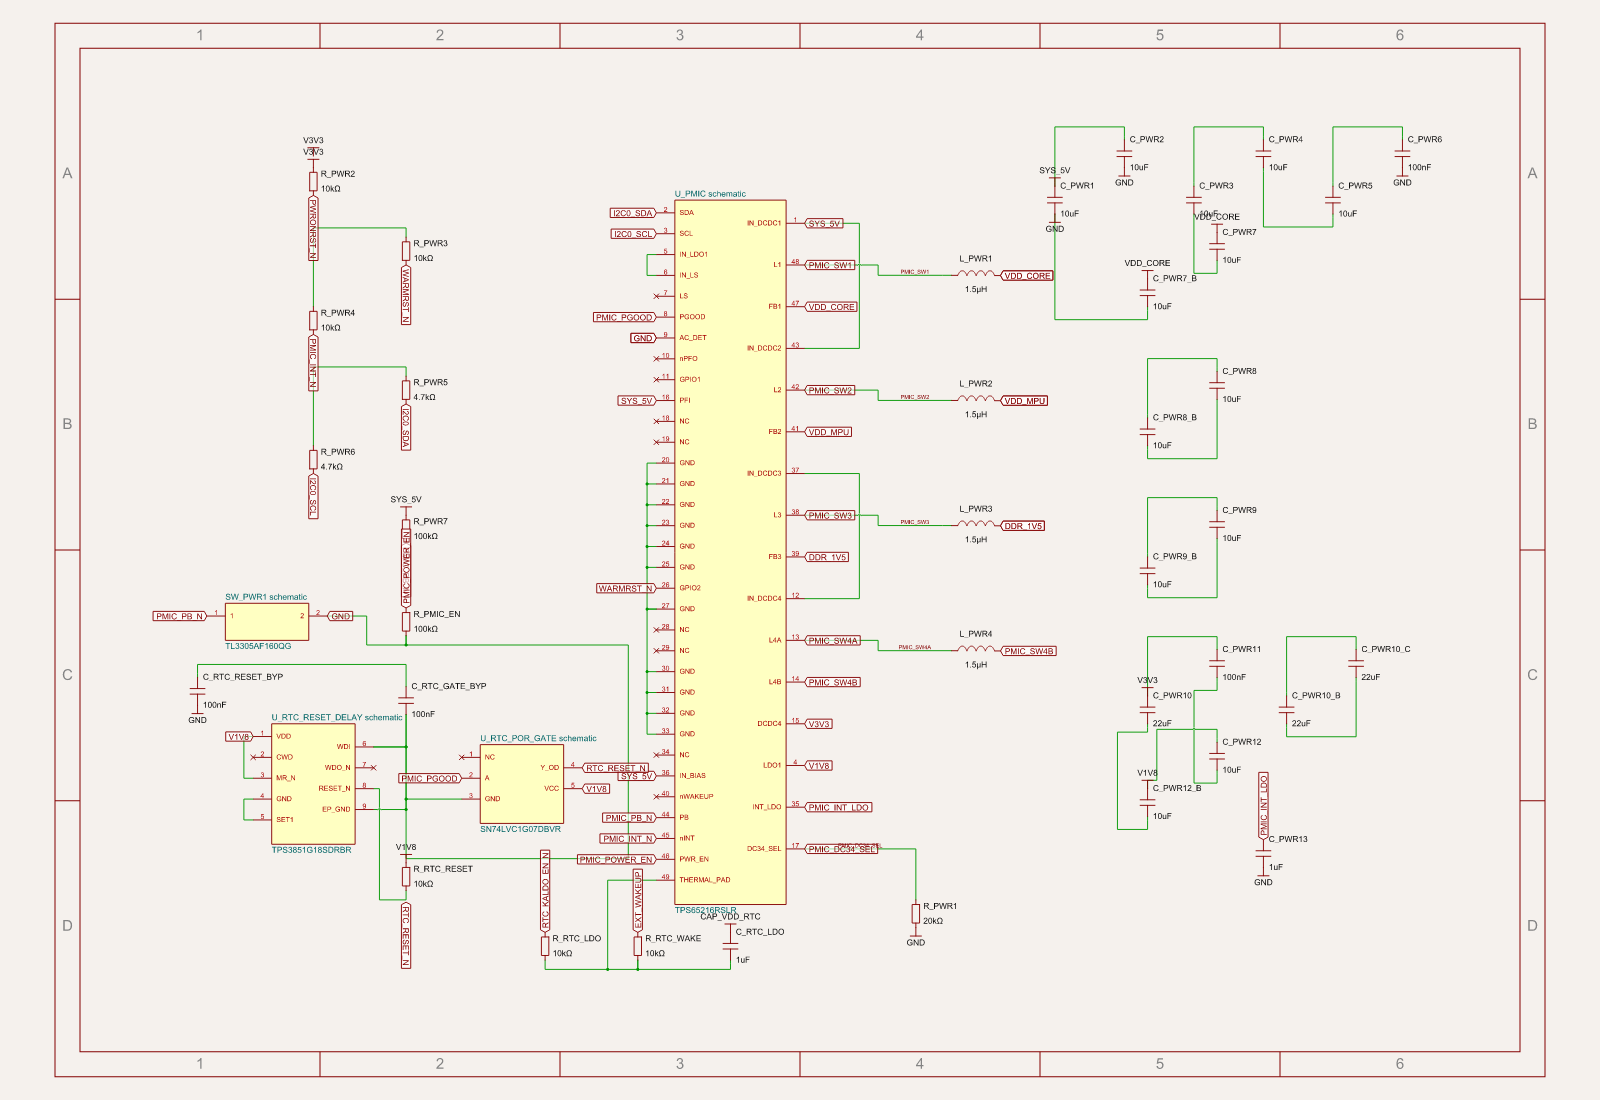
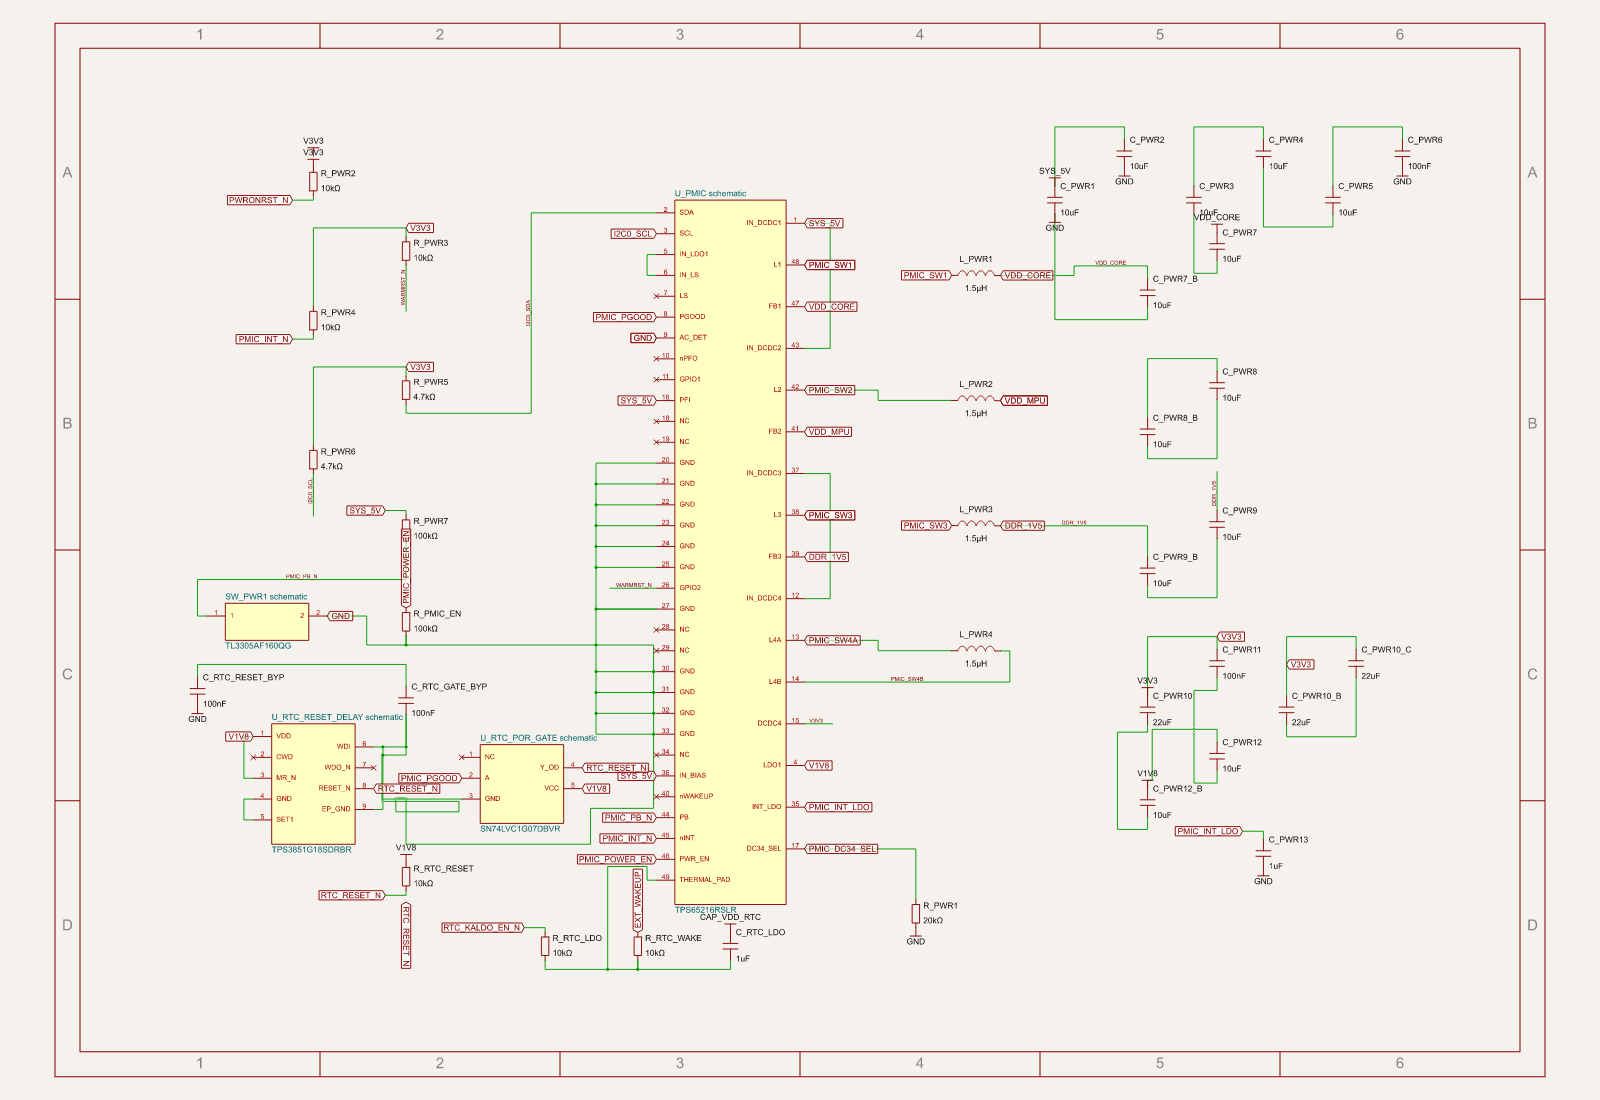
docs: verify power schematic PCB equivalence and visual metrics

diff --git a/scripts/schematic-lint-evidence.tsx b/scripts/schematic-lint-evidence.tsx
@@ -18,7 +18,7 @@ const summarize = (records: any[]) => Object.fromEntries([...new Set(physical(re
   // Stock capacitor symbols reorder, and sometimes omit, polarity synonyms on
   // rotation. Numbered pin identities and every connection remain comparable.
   const elements = records.filter(r => r.type === type).map(r => type === "source_port" ?
-    { ...r, port_hints: r.port_hints?.filter((hint: string) => !["pos", "neg", "anode", "cathode"].includes(hint)).sort() } : type === "source_missing_manufacturer_part_number_warning" ?
+    { ...r, port_hints: r.port_hints?.filter((hint: string) => !["pos", "neg", "anode", "cathode"].includes(hint)).sort() } : type === "source_component" ? (({ max_decoupling_trace_length, ...component }) => component)(r) : type === "source_missing_manufacturer_part_number_warning" ?
     { ...r, message: r.message.replace(/chip#\d+/g, "chip#runtime") } : r)
   return [type, { count: elements.length, sha256: digest(elements) }]
 }))
@@ -43,6 +43,13 @@ const summary = summarize(circuit)
 if (baseline) {
   const original = JSON.parse(readFileSync(baseline, "utf8"))
   const before = summarize(original)
+  const inferred = circuit.filter((r: any) => r.type === "source_component" && r.max_decoupling_trace_length !== undefined).flatMap((r: any) => {
+    const prior = original.find((p: any) => p.source_component_id === r.source_component_id && p.type === "source_component")
+    return prior?.max_decoupling_trace_length === r.max_decoupling_trace_length ? [] : [{ name: r.name, before: prior?.max_decoupling_trace_length ?? null, after: r.max_decoupling_trace_length }]
+  })
+  if (inferred.some((r: any) => r.before !== null || r.after !== 1)) throw new Error("Unexpected capacitor constraint change")
+  mkdirSync(output, { recursive: true })
+  writeFileSync(`${output}/inferred-capacitor-constraints.json`, JSON.stringify(inferred, null, 2) + "\n")
   if (digest(connectivity(original)) !== digest(connectivity(circuit))) throw new Error("Source terminal/net connectivity changed")
   const changed = [...new Set([...Object.keys(before), ...Object.keys(summary)])]
     .filter(type => type !== "source_trace" && !volatile.has(type) && JSON.stringify(before[type]) !== JSON.stringify(summary[type]))

diff --git a/docs/schematic-visual/README.md b/docs/schematic-visual/README.md
@@ -7,7 +7,7 @@ The PNGs retain the actual sheet frame, so fit-to-sheet problems stay visible.
 
 ## Power management
 
-Status: draft candidate. The PNG is a native focused TSX render. The full-board build and strict PCB/connectivity comparison for the wired revision are running; this revision is not yet claimed verified. Earlier label-only candidates passed the complete PCB comparison.
+Status: full native Power management revision built and compared with #70. Every PCB record and the complete terminal/net connectivity partition match. Native placement on the full build: **0 findings**.
 
 [Before](before/power-management.png) · [After](power/power-management.png)
 
@@ -53,3 +53,7 @@ Render again with:
 bun scripts/schematic-visual-evidence.tsx dist/index/circuit.json work/schematic-visual/current
 bun scripts/schematic-lint-evidence.tsx work/schematic-visual/check work/schematic-visual/pr70.circuit.json
 ```
+
+Power management metrics: labels **59.9% → 42.0%**; sheet **700×1190 → 297×210 mm**; content bounding-box fill **50.9% → 78.8%**; sheet warnings **1 → 0**. [Detailed receipt](power/sheets.json).
+
+Two RTC bypass capacitors gain the core’s inferred default `max_decoupling_trace_length: 1` when native local paths make their existing decoupling relationship explicit. This source constraint is recorded in [the delta receipt](power/inferred-capacitor-constraints.json); the comparator accepts only newly inferred value 1 and retains all other source component fields. It changes no terminal/net connectivity or PCB record.
